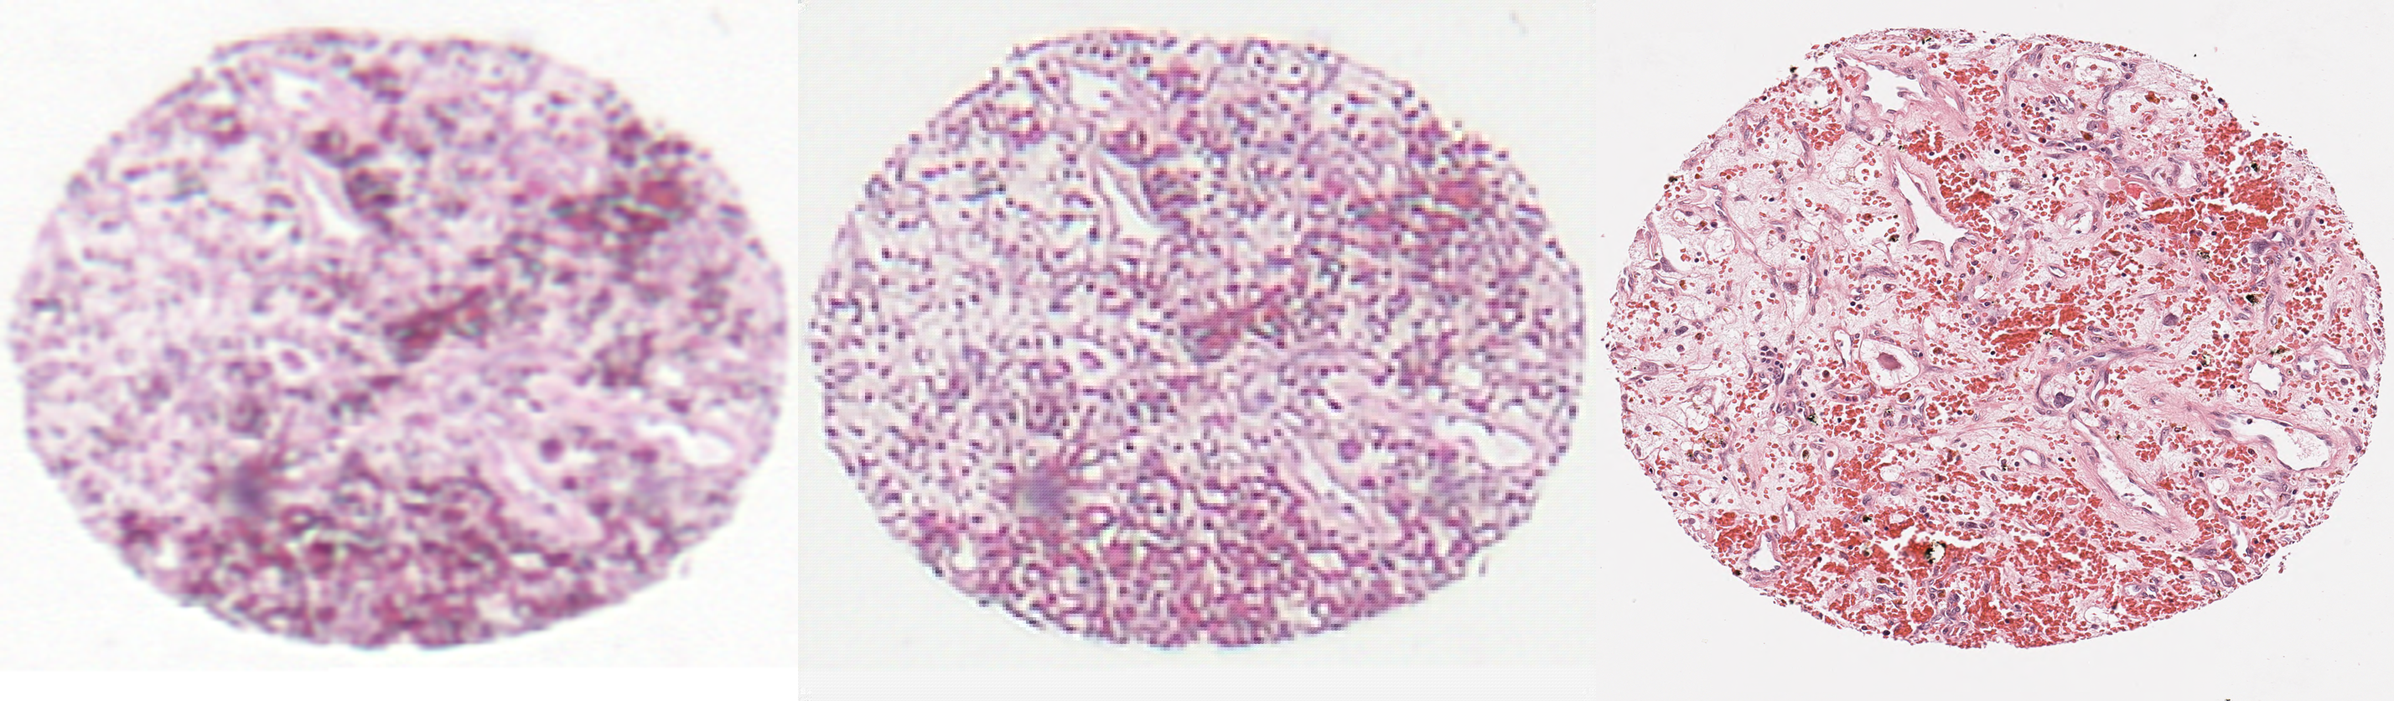
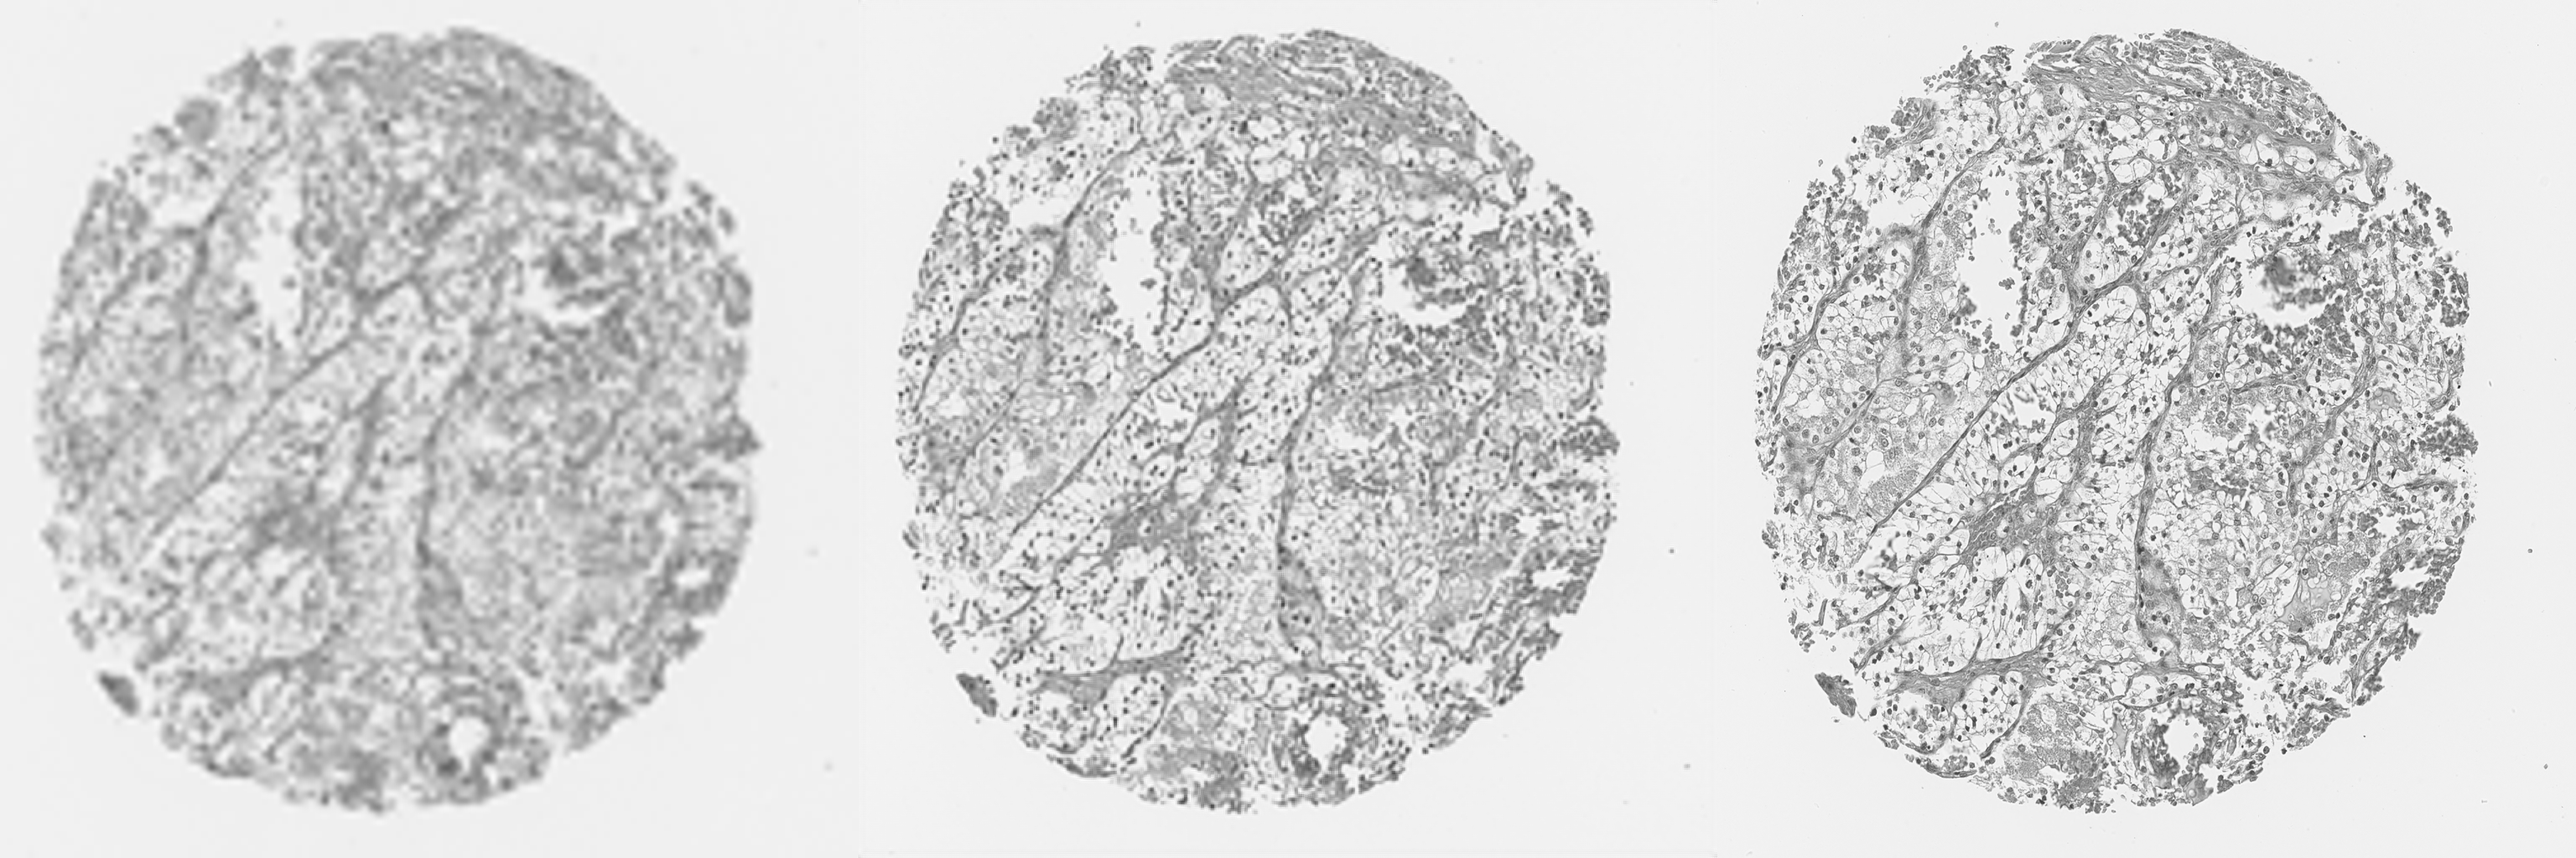
Revised RCNN model Performs convolutions, adds needed covs, relus on that Reworked super_resolve to use the test set Added example from new training Corrected misc. spacing Removed unused imports

diff --git a/model.py b/model.py
@@ -1,8 +1,8 @@
-import torch
 import torch.nn as nn
+import torch.nn.functional as F
 import torch.nn.init as init
 
-# TODO Fix issue of loss increasing dramatically
+
 class RNet(nn.Module):
     def __init__(self, upscale_factor):
         super(RNet, self).__init__()
@@ -10,45 +10,48 @@ class RNet(nn.Module):
         # Layers for input
         self.convLowFirst = nn.Conv2d(in_channels=1, out_channels=32, kernel_size=3, stride=1, padding=1)
         self.convLowSecond = nn.Conv2d(in_channels=32, out_channels=16, kernel_size=2, stride=2, padding=0)
-        self.convLowThird = nn.Conv2d(in_channels=16, out_channels=(upscale_factor*2)**2, kernel_size=1, stride=1, padding=0)
+        self.convLowThird = nn.Conv2d(in_channels=16, out_channels=int(upscale_factor*2), kernel_size=1, stride=1, padding=0)
         # Layers for intermediate 1
         self.convInt1First = nn.Conv2d(in_channels=1, out_channels=32, kernel_size=3, stride=1, padding=1)
         self.convInt1Second = nn.Conv2d(in_channels=32, out_channels=16, kernel_size=2, stride=2, padding=0)
-        self.convInt1Third = nn.Conv2d(in_channels=16, out_channels=(upscale_factor*2)**2, kernel_size=1, stride=1, padding=0)
+        self.convInt1Third = nn.Conv2d(in_channels=16, out_channels=int(upscale_factor*2), kernel_size=1, stride=1, padding=0)
         # Layers for intermediate 2
         self.convInt2First = nn.Conv2d(in_channels=1, out_channels=32, kernel_size=3, stride=1, padding=1)
         self.convInt2Second = nn.Conv2d(in_channels=32, out_channels=16, kernel_size=2, stride=2, padding=0)
-        self.convInt2Third = nn.Conv2d(in_channels=16, out_channels=(upscale_factor*2)**2, kernel_size=1, stride=1, padding=0)
-        #Other needed declarations
+        self.convInt2Third = nn.Conv2d(in_channels=16, out_channels=int(upscale_factor*2), kernel_size=1, stride=1, padding=0)
+        # Other needed declarations
         self.relu = nn.LeakyReLU()
-        self.pixel_shuffle = nn.PixelShuffle(upscale_factor*2)
+        self.pixel_shuffle = nn.PixelShuffle(int(upscale_factor/4))
         self._initialize_weights()
+        # Upsample layer
+        self.upsample = Interpolate(size=(512, 512), mode='bilinear')
 
     def forward(self, x, i1, i2):
         # First layer
-        i2 = self.relu(self.convInt2First(i2))
-        self.convInt1First.weight.data.add_(self.convInt2First.weight.data)
-        i1 = self.relu(self.convInt1First(i1))
-        self.convLowFirst.weight.data.add_(self.convInt1First.weight.data)
-        x = self.relu(self.convLowFirst(x))
+        i2c = self.convInt2First(i2)
+        i2 = self.relu(i2c)
+        i1c = self.convInt1First(i1)
+        i1 = self.relu(self.upsample(i1c) + self.upsample(i2c))
+        xc = self.convLowFirst(x)
+        x = self.relu(self.upsample(xc) + self.upsample(i1c) + self.upsample(i2c))
 
         # Second layer
-        i2 = self.relu(self.convInt2Second(i2))
-        self.convInt1Second.weight.data.add_(self.convInt2Second.weight.data)
-        i1 = self.relu(self.convInt1Second(i1))
-        self.convLowSecond.weight.data.add_(self.convInt1Second.weight.data)
-        x = self.relu(self.convLowSecond(x))
+        i2c = self.convInt2Second(i2)
+        i2 = self.relu(i2c)
+        i1c = self.convInt1Second(i1)
+        i1 = self.relu(self.upsample(i1c) + self.upsample(i2c))
+        xc = self.convLowSecond(x)
+        x = self.relu(self.upsample(xc) + self.upsample(i1c) + self.upsample(i2c))
 
         # Third layer
-        i2 = self.relu(self.convInt2Third(i2))
-        self.convInt1Third.weight.data.add_(self.convInt2Third.weight.data)
-        i1 = self.relu(self.convInt1Third(i1))
-        self.convLowThird.weight.data.add_(self.convInt1Third.weight.data)
-        x = self.relu(self.convLowThird(x))
+        i2c = self.convInt2Third(i2)
+        i2 = self.relu(i2c)
+        i1c = self.convInt1Third(i1)
+        i1 = self.relu(self.upsample(i1c) + self.upsample(i2c))
+        xc = self.convLowThird(x)
+        x = self.relu(self.upsample(xc) + self.upsample(i1c) + self.upsample(i2c))
 
         # Subpixel layer
-        i2 = self.pixel_shuffle(i2)
-        i1 = self.pixel_shuffle(i1)
         x = self.pixel_shuffle(x)
 
         return x
@@ -65,3 +68,15 @@ class RNet(nn.Module):
         init.orthogonal_(self.convInt2First.weight, init.calculate_gain('leaky_relu'))
         init.orthogonal_(self.convInt2Second.weight, init.calculate_gain('leaky_relu'))
         init.orthogonal_(self.convInt2Third.weight, init.calculate_gain('leaky_relu'))
+
+
+class Interpolate(nn.Module):
+    def __init__(self, size, mode):
+        super(Interpolate, self).__init__()
+        self.interp = F.interpolate
+        self.size = size
+        self.mode = mode
+
+    def forward(self, x):
+        x = self.interp(x, size=self.size, mode=self.mode, align_corners=False)
+        return x

diff --git a/super_resolve.py b/super_resolve.py
@@ -1,72 +1,67 @@
 from __future__ import print_function
 import argparse
-import torch
-from torch.autograd import Variable
-from PIL import Image
-from torchvision.transforms import ToTensor
-import glob
-import os
-from os.path import basename
-
-
+from data import  get_test_set
 import numpy as np
-from os import listdir, makedirs
+import os
+from os import makedirs
 from os.path import join, exists
-from utils import save_image, save_output
+from PIL import Image
+import torch
+import torchvision.utils as tv
+from torch.utils.data import DataLoader
+
+
+from utils import save_output
+
 
 # SR settings
 parser = argparse.ArgumentParser(description='PyTorch Super Res Example')
-parser.add_argument('--input_dir', type=str, required=True, help='input image to use')
-parser.add_argument('--ref_dir', type=str, required=True, help='high resolution version of input images')
+parser.add_argument('--upscale_factor', type=int, default=8, required=True, help="super resolution upscale factor")
 parser.add_argument('--model', type=str, required=True, help='model file to use')
 parser.add_argument('--output_dir', type=str, help='directory where output images are stored')
+parser.add_argument('--threads', type=int, default=4, help='number of threads for data loader to use')
 parser.add_argument('--cuda', action='store_true', help='use cuda')
 opt = parser.parse_args()
 
-sr_set = opt.input_dir
 
-images = glob.glob(sr_set+"/*.png")
-
+test_set = get_test_set(8)
+testing_data_loader = DataLoader(dataset=test_set, num_workers=opt.threads, batch_size=1, shuffle=True)
+device = torch.device("cuda" if opt.cuda else "cpu")
 model_dir = join("checkpoints", opt.model)
+model = torch.load(model_dir)
+model.to(device)
 
-for image in images:
-    filename = os.fsdecode(image)
-    print(opt)
-    with open(image, 'rb') as file:
-        img = Image.open(filename).convert('YCbCr')
-    y, cb, cr = img.split()
 
-    model = torch.load(model_dir)
-    img_to_tensor = ToTensor()
-    input = img_to_tensor(y).view(1, -1, y.size[1], y.size[0])
-
-    if opt.cuda:
-        model = model.cuda()
-        input = input.cuda()
-
-    out = model(input)
-    out = out.cpu()
-    out_img_y = out[0].detach().numpy()
-    out_img_y *= 255.0
-    out_img_y = out_img_y.clip(0, 255)
-    out_img_y = Image.fromarray(np.uint8(out_img_y[0]), mode='L')
-
-    out_img_cb = cb.resize(out_img_y.size, Image.BICUBIC)
-    out_img_cr = cr.resize(out_img_y.size, Image.BICUBIC)
-    out_img = Image.merge('YCbCr', [out_img_y, out_img_cb, out_img_cr]).convert('RGB')
-
-    path = opt.ref_dir
-    new_filename = basename(filename)
-    print(filename)
-    low_img = Image.open(filename)
-    hr_img = Image.open(path + new_filename)
-
+def main():
+    counter = 0
     if not exists(opt.output_dir):
         makedirs(opt.output_dir)
+    with torch.no_grad():
+        for batch in testing_data_loader:
+            inimg, int1, int2, target = batch[0].to(device), batch[1].to(device), batch[2].to(device), batch[3].to(device)
+            prediction = model(inimg, int1, int2)
+            lowres_fname=(test_set.lowres_filenames[counter])
+            fname=lowres_fname[29:40]
+            in_filename = opt.output_dir + str(fname)
+            out_filename = opt.output_dir + 'out' + str(fname)
+            tg_filename = opt.output_dir + 'tg' + str(fname)
+            result_filename = 'Result_' + str(fname)
+            tv.save_image(inimg, in_filename)
+            tv.save_image(prediction, out_filename)
+            tv.save_image(target, tg_filename)
+            low_img = Image.open(in_filename).convert('L')
+            out_img = Image.open(out_filename).convert('L')
+            hr_img = Image.open(tg_filename).convert('L')
+            out_img = np.asarray(out_img)
+            low_img = np.asarray(low_img)
+            high_img = np.asarray(hr_img)
+            save_output(lr_img=low_img, prediction=out_img, hr_img=high_img,
+                        path=os.path.join(opt.output_dir, '%s' % result_filename))
+            os.remove(in_filename)
+            os.remove(out_filename)
+            os.remove(tg_filename)
+            counter += 1
 
-    out_img = np.asarray(out_img)
-    low_img = np.asarray(low_img)
-    high_img = np.asarray(hr_img)
 
-    save_image(image=out_img, path=os.path.join(opt.output_dir, '%s' % basename(filename)))
-    save_output(lr_img=low_img, prediction=out_img, hr_img=high_img, path=os.path.join(opt.output_dir, '%s' % basename(filename)))
+if __name__ == '__main__':
+    main()

diff --git a/data.py b/data.py
@@ -1,51 +1,47 @@
-from os.path import exists, join, basename
-from os import makedirs, remove
-from six.moves import urllib
-import tarfile
-from torchvision.transforms import Compose, CenterCrop, ToTensor, Resize
-
 from dataset import DatasetFromFolder
+from os.path import join
+from torchvision.transforms import Compose, CenterCrop, ToTensor, Resize
 
 
 def calculate_valid_crop_size(crop_size, upscale_factor):
     return crop_size - (crop_size % upscale_factor)
 
+
 #For all of these transformations, we are currently assuming an upscale factor of 8 (256 -> 2048)
-#Input final size: 224
+#Input final size: 128
 def input_transform(crop_size, upscale_factor):
     return Compose([
-        Resize((int(2048/upscale_factor), int(2048/upscale_factor)), interpolation=3),
+        Resize((int(1024/upscale_factor), int(1024/upscale_factor)), interpolation=3),
         CenterCrop(crop_size/upscale_factor),
         ToTensor(),
     ])
 
 
-#Intermediate 1 final size: 448
+#Intermediate 1 final size: 256
 def int1_transform(crop_size, upscale_factor):
     return Compose([
-        Resize((int(2048/(upscale_factor/2)), int(2048/(upscale_factor/2))), interpolation=3),
+        Resize((int(1024/(upscale_factor/2)), int(1024/(upscale_factor/2))), interpolation=3),
         CenterCrop(crop_size/(upscale_factor/2)),
         ToTensor(),
     ])
 
 
-#Intermediate 2 final size: 896
+#Intermediate 2 final size: 512
 def int2_transform(crop_size, upscale_factor):
     return Compose([
-        Resize((int(2048/(upscale_factor/4)), int(2048/(upscale_factor/4))), interpolation=3),
+        Resize((int(1024/(upscale_factor/4)), int(1024/(upscale_factor/4))), interpolation=3),
         CenterCrop(crop_size/(upscale_factor/4)),
         ToTensor(),
     ])
 
 
-#Target final size: 1792
+#Target final size: 1024
 def target_transform(crop_size, upscale_factor):
     return Compose([
-        Resize((2048, 2048), interpolation=3),
+        Resize((1024, 1024), interpolation=3),
         CenterCrop(crop_size),
         ToTensor(),
     ])
-
 
 
 def get_training_set(upscale_factor):
@@ -54,7 +50,7 @@ def get_training_set(upscale_factor):
     int2_dir = join(root_dir, "int2")
     int1_dir = join(root_dir, "int1")
     lowres_dir = join(root_dir, "lowres")
-    crop_size = calculate_valid_crop_size(2048, upscale_factor)
+    crop_size = calculate_valid_crop_size(1024, upscale_factor)
 
     return DatasetFromFolder(lowres_dir, int1_dir, int2_dir, highres_dir,
                              input_transform=input_transform(crop_size, upscale_factor),
@@ -69,7 +65,7 @@ def get_test_set(upscale_factor):
     int2_dir = join(root_dir, "int2")
     int1_dir = join(root_dir, "int1")
     lowres_dir = join(root_dir, "lowres")
-    crop_size = calculate_valid_crop_size(2048, upscale_factor)
+    crop_size = calculate_valid_crop_size(1024, upscale_factor)
 
     return DatasetFromFolder(lowres_dir, int1_dir, int2_dir, highres_dir,
                              input_transform=input_transform(crop_size, upscale_factor),

diff --git a/utils.py b/utils.py
@@ -1,8 +1,6 @@
-import os
-from glob import glob
-
 import numpy as np
 import scipy.misc
+
 
 def save_output(lr_img, prediction, hr_img, path):
     h = prediction.shape[0]
@@ -19,9 +17,11 @@ def save_image(image, path, normalize=False):
         out_img = _intensity_normalization(out_img)
     return scipy.misc.imsave(path, out_img)
 
+
 def do_resize(x, shape):
     y = scipy.misc.imresize(x, shape, interp='bicubic')
     return y
+
 
 def _pre_process(images):
     pre_processed = _normalize(np.asarray(images))
@@ -36,9 +36,11 @@ def _intensity_normalization(image):
     image = np.where(image > threshold, (image - mean + 240), image)
     return image
 
+
 def _post_process(images):
     post_processed = _unnormalize(images)
     return post_processed.squeeze()
+
 
 def _unnormalize(image):
     return image

diff --git a/README.md b/README.md
@@ -30,13 +30,13 @@ optional arguments:
 `Example: pt_enhancer\dataset\kidney\images\highres\`
 
 ### Train
-`--upscale_factor 4 --batchSize 10 --nEpochs 1000 --lr 0.0001 --threads 5 --cuda --train`
+`--upscale_factor 8 --batchSize 10 --nEpochs 1000 --lr 0.0001 --threads 5 --cuda --train`
 
 ### Test
-`--upscale_factor 4 --testBatchSize 1 --nEpochs 1000 --threads 5 --cuda`
+`--upscale_factor 8 --testBatchSize 1 --nEpochs 1000 --threads 5 --cuda`
 
 ### Super Resolve
-`python super_resolve.py --input_dir dataset/<type>/images/lowres --ref_dir dataset/<type>/images/highres/ --model model_epoch_100.pth --output_dir results --cuda`
+`python super_resolve.py --upscale_factor 8 --model model_epoch_100.pth --output_dir results/ --threads 1 --cuda`
 
 ## Sample
 Kidney Tissue<br>
